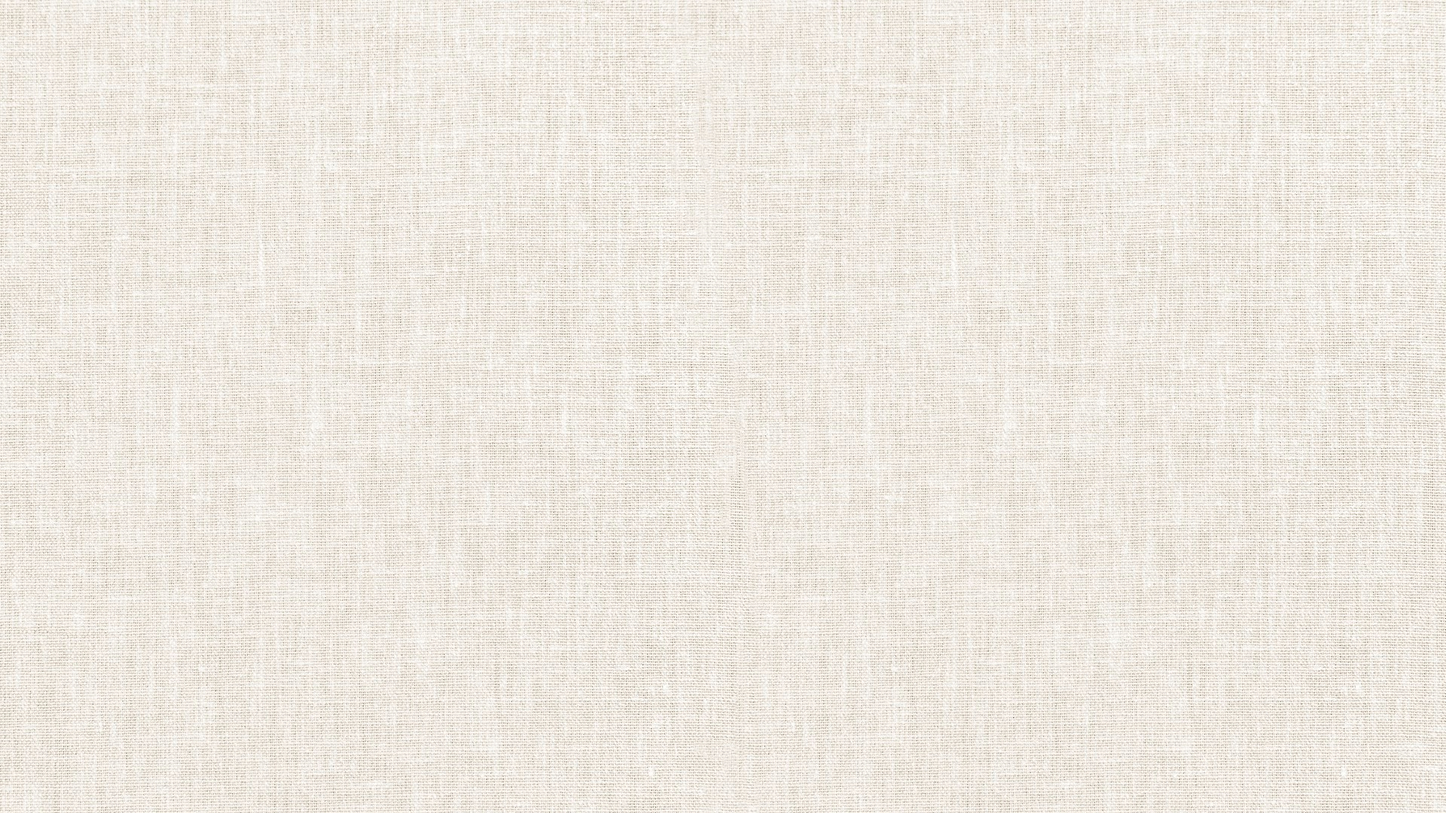
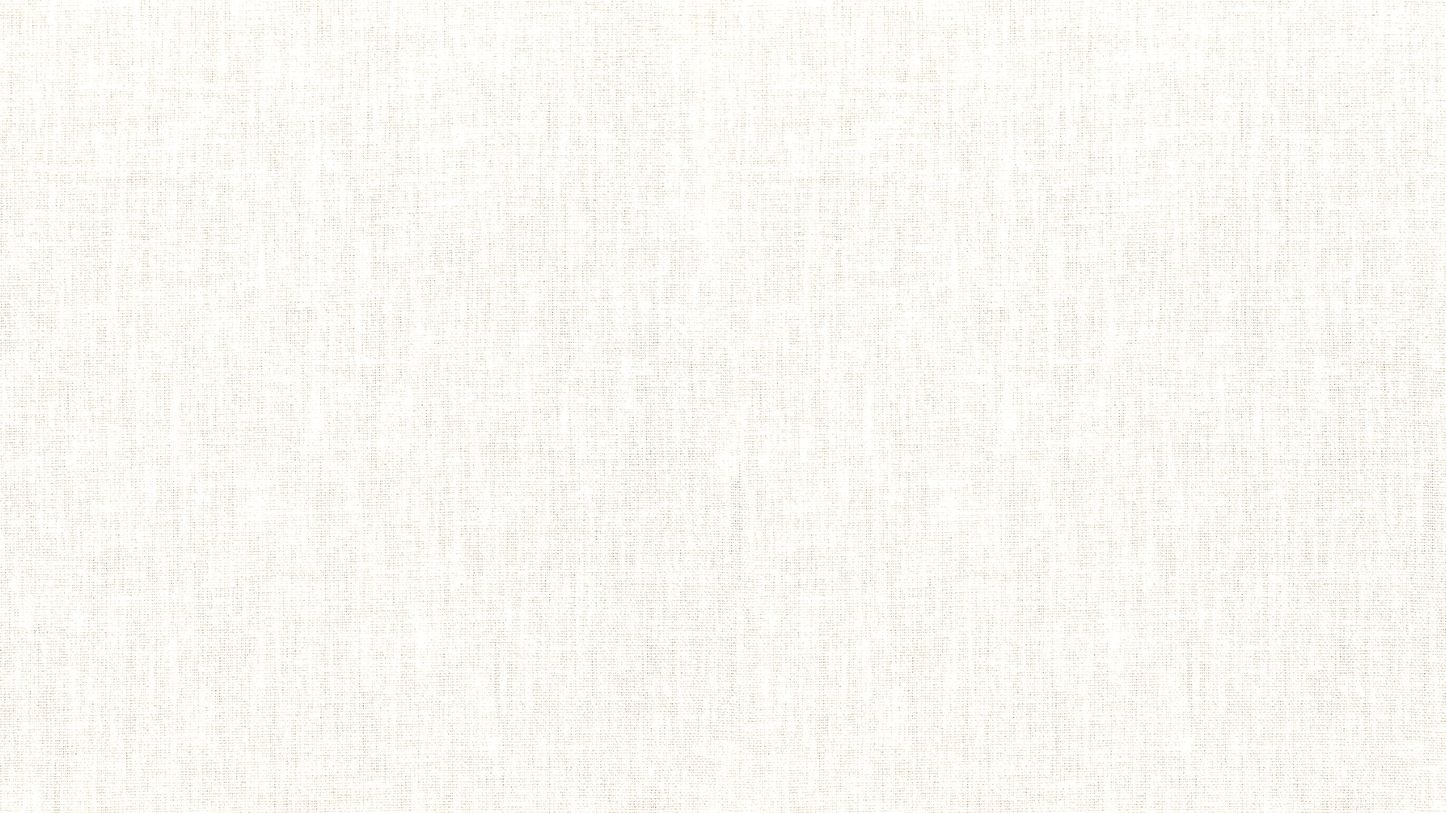
Defatul-none 1.0.0

diff --git a/components/button/ProjectNav.tsx b/components/button/ProjectNav.tsx
@@ -1,11 +1,51 @@
-export function ProjectNav (){
-    return(
-        <nav>
-            <ul className="flex justify-center text-white-xl text-center">
-                <li id="wup" className="w-[100px] mx-[50px]">Page</li>
-                <li id="wup" className="w-[100px] mx-[50px]">Code</li>
-                <li id="wup" className="w-[100px] mx-[50px]">In more</li>
-            </ul>
-        </nav>
-    )
+type Props = {
+  link: string | undefined;
+};
+
+export function ProjectNav({ link }: Props) {
+  return (
+    <nav>
+      <ul className="flex justify-center text-white-xl text-center">
+        <li id="wup" className="w-[100px] mx-[50px]">
+          <a target="_blank"
+            href={
+              link === "team1"
+                ? "https://default-none.github.io/f12project/"
+                : link === "team2"
+                ? "https://kyuleee.github.io/docsuri/"
+                : undefined
+            }
+          >
+            Page
+          </a>
+        </li>
+        <li id="wup" className="w-[100px] mx-[50px]">
+        <a target="_blank"
+            href={
+              link === "team1"
+                ? "https://github.com/default-none/f12project"
+                : link === "team2"
+                ? "https://github.com/kyuleee/docsuri"
+                : undefined
+            }
+          >
+            Code
+          </a>
+        </li>
+        <li id="wup" className="w-[100px] mx-[50px]">
+        <a target="_blank"
+            href={
+              link === "team1"
+                ? "https://default-none.github.io/f12project/"
+                : link === "team2"
+                ? "https://kyuleee.github.io/docsuri/"
+                : undefined
+            }
+          >
+            In More
+          </a>
+        </li>
+      </ul>
+    </nav>
+  );
 }

diff --git a/app/layout/section/About.tsx b/app/layout/section/About.tsx
@@ -33,11 +33,11 @@ export function About({view, setView, sectionRef}: hookLogic) {
   }, 300);
   return (
     <>
-      <section ref={sectionRef} className="w-[100%] h-[100dvh] max-md:h-[100%] flex-col-center">
+      <section ref={sectionRef} className="w-[100%] h-[100dvh]">
         <div
           className={
             (view ? "opacity-100" : "opacity-0 ") +
-            " AboutScreen w-[100%] h-[100%] my-[15%] max-md:h-[100%] duration-[.5s]"
+            " AboutScreen w-[100%] h-[100%] pt-[10%] duration-[.5s]"
           }
         >
           <SectionTitle text={TITLE} view={view} />
@@ -45,7 +45,7 @@ export function About({view, setView, sectionRef}: hookLogic) {
             <div className="absolute-content top-[50%] left-[50%] z-[-1] grayscale opacity-20">
               <Logo size={200} />
             </div>
-            <div className="profileImg w-[210px] h-[270px] max-md:w-[140px] max-md:h-[180px] overflow-hidden absolute max-md:static translate-y-[-50%] top-[50%] left-[0%]">
+            <div className="profileImg w-[210px] h-[270px] max-md:w-[140px] max-md:h-[180px] max-md:mb-[50px] overflow-hidden absolute max-md:static translate-y-[-50%] max-md:translate-y-[0%] top-[50%] left-[0%]">
               <Image
                 src={Profile}
                 alt="Profile"

diff --git a/components/text/LinkTitle.tsx b/components/text/LinkTitle.tsx
@@ -7,7 +7,7 @@ interface Props {
 
 import { useState } from "react";
 import { components } from "typeList";
-export function LinkTitle({ text }: components) {
+export function LinkTitle({ text, imgName }: components) {
   const [position, setPosition] = useState<Props>({
     x: undefined,
     y: undefined,
@@ -15,7 +15,7 @@ export function LinkTitle({ text }: components) {
   const [test, setTest] = useState(false);
 
   function handleImgMove(e: React.MouseEvent) {
-    console.log(e)
+    console.log(e);
     setPosition({
       x: e.clientX,
       y: e.pageY,
@@ -37,7 +37,12 @@ export function LinkTitle({ text }: components) {
         onMouseLeave={() => setTest(false)}
         className={
           (test ? " opacity-100 blur-none" : " opacity-0 blur-3xl") +
-          " absolute-content w-[240px] h-[180px] bg-red-600 z-50 duration-[.3s]"
+          " absolute-content w-[320px] h-[180px] z-50 duration-[.3s]" +
+          (imgName === "team1"
+            ? " bg-team1-desktop"
+            : imgName === "team2"
+            ? " bg-team2-desktop"
+            : " bg-red-600")
         }
       ></div>
     </>

diff --git a/app/layout/section/State.tsx b/app/layout/section/State.tsx
@@ -39,7 +39,7 @@ export function State({
     >
       <div className="history w-[100%]">
         <SubTitle text={"History"} view={view} />
-        <ul className="h-[100%] flex flex-col flex-wrap gap-x-[80px] gap-y-[20px] overflow-hidden mt-[50px]">
+        <ul className="h-[100%] flex flex-col max-md:flex-nowrap flex-wrap gap-x-[80px] max-md:gap-x-[0] gap-y-[20px] overflow-hidden mt-[50px]">
           {history.map((career, id) => {
             return (
               <li
@@ -48,7 +48,7 @@ export function State({
                   (view
                     ? "translate-y-[0%] opacity-100"
                     : "translate-y-[50%] opacity-0") +
-                  " text-white-base flex justify-between w-[calc(50%-40px)] max-md:w-[100%] h-[20%] my-[5px] duration-[.5s] max-[540px]:justify-center"
+                  " text-white-base flex justify-between w-[calc(50%-40px)] max-md:w-[100%] h-[20%] max-md:h-[max-content] max- duration-[.5s] max-[540px]:justify-center"
                 }
               >
                 <span>{career.content}</span>

diff --git a/tailwind.config.ts b/tailwind.config.ts
@@ -11,7 +11,13 @@ const config: Config = {
       backgroundImage: {
         "gradient-radial": "radial-gradient(var(--tw-gradient-stops))",
         "gradient-conic": "conic-gradient(from 180deg at 50% 50%, var(--tw-gradient-stops))",
-        "pj1-desktop": "url('./build/')",
+        "team1-desktop": "url('../public/asset/image/team1.png')",
+        "team2-desktop": "url('../public/asset/image/team2.png')",
+        "pj2-desktop" : "url('./public/asset/image/')",
+        "toy-1": "url('../public/asset/image/toyProject1.png')",
+        "toy-2": "url('../public/asset/image/toyProject1.png')",
+        "toy-3": "url('../public/asset/image/toyProject1.png')",
+        "toy-4": "url('../public/asset/image/toyProject1.png')"
       },
       fontFamily: {
         sans: ["var(--font-roboto-flex)", "var(--font-noto-sans-kr)"],

diff --git a/app/layout/section/Project.tsx b/app/layout/section/Project.tsx
@@ -55,8 +55,8 @@ export function Project({
   }, 300);
   return (
     <>
-      <section ref={sectionRef} className="">
-        <div className="w-[100%] duration-[.5s] my-[15%]">
+      <section ref={sectionRef}>
+        <div className="w-[100%] duration-[.5s] pt-[10%]">
           <SectionTitle text={TITLE} view={firstView} />
           <ContentWrap
             projectType={"Personal Project"}
@@ -71,7 +71,9 @@ export function Project({
           <ContentWrap
             projectType={"Team Project"}
             projectTitle={"밤을걷다 고궁 축제 FestivalSite 제작"}
+            name={"team1"}
             projectTitle2={"독:수리 초등학교 고학년 수학 학습 Site 제작"}
+            name2={"team2"}
             view={secondView}
           />
         </div>

diff --git a/app/layout/section/ToyClone.tsx b/app/layout/section/ToyClone.tsx
@@ -1,11 +1,15 @@
 export function ToyClone() {
   return (
-    <section className="bg-img w-[100vw] h-[100dvh] flex-col-center relative">
+    <section className="bg-img w-[100vw] h-[100dvh] flex-col-center flex-wrap relative">
         <div className="top-[50%] left-[50%] absolute-content flex-col-center font-serif text-black-7xl font-light">
             <span>ToyProject</span>
             <span>&</span>
             <span>Cloning</span>
         </div>
+        <div className="w-[270px] h-[360px] bg-black bg-toy-1"></div>
+        <div className="w-[360px] h-[270px] bg-black mt-[100px]"></div>
+        <div className="w-[360px] h-[270px] bg-black"></div>
+        <div className="w-[270px] h-[360px] bg-black mt-[100px]"></div>
     </section>
   );
 }

diff --git a/app/layout/section/project/Content.tsx b/app/layout/section/project/Content.tsx
@@ -2,18 +2,12 @@ import { ProjectNav } from "@/components/button/ProjectNav";
 import { LinkTitle } from "@/components/text/LinkTitle";
 import { components } from "typeList";
 
-export function Content({ text, view }: components) {
+export function Content({ text, view, imgName }: components) {
   return (
     <>
-      <div
-        className={
-          (view
-            ? "opacity-100"
-            : "opacity-0") + " duration-[.5s]"
-        }
-      >
-        <LinkTitle text={text} />
-        <ProjectNav />
+      <div className={(view ? "opacity-100" : "opacity-0") + " duration-[.5s]"}>
+        <LinkTitle text={text} imgName={imgName} />
+        <ProjectNav link={imgName}/>
       </div>
     </>
   );

diff --git a/app/layout/section/project/ContentWrap.tsx b/app/layout/section/project/ContentWrap.tsx
@@ -5,6 +5,8 @@ type Props = {
   projectType: string;
   projectTitle: string;
   projectTitle2: string;
+  name?: string;
+  name2?: string;
   view?: boolean;
 };
 
@@ -13,13 +15,15 @@ export function ContentWrap({
   projectTitle,
   projectTitle2,
   view,
+  name,
+  name2
 }: Props) {
   return (
     <>
       <div className="w-[100%] h-[100%] flex-col-center pt-[5%]">
         <ClassText text={projectType} view={view}/>
-        <Content text={projectTitle} view={view}/>
-        <Content text={projectTitle2} view={view}/>
+        <Content text={projectTitle} view={view} imgName={name}/>
+        <Content text={projectTitle2} view={view} imgName={name2}/>
       </div>
     </>
   );

diff --git a/app/globals.css b/app/globals.css
@@ -5,7 +5,7 @@
 @layer components {
   /* BACK GROUND */
   .bg-img {
-    background: url(../public/asset/image/background2.jpg) center repeat;
+    background: url(../public/asset/image/background.jpg) center repeat;
     background-size: contain;
   }
   /* BORDER SCREEN */

diff --git a/types/common.d.ts b/types/common.d.ts
@@ -15,6 +15,7 @@ declare module "typeList" {
   }
   type components = {
     text: string;
+    imgName?: string;
     view?: boolean;
   };
 }
